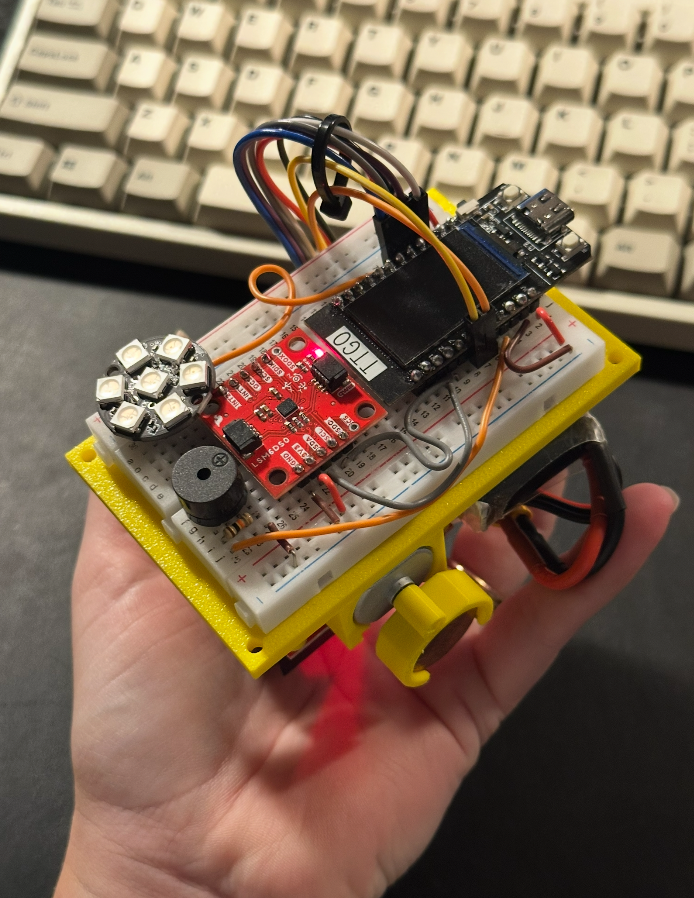
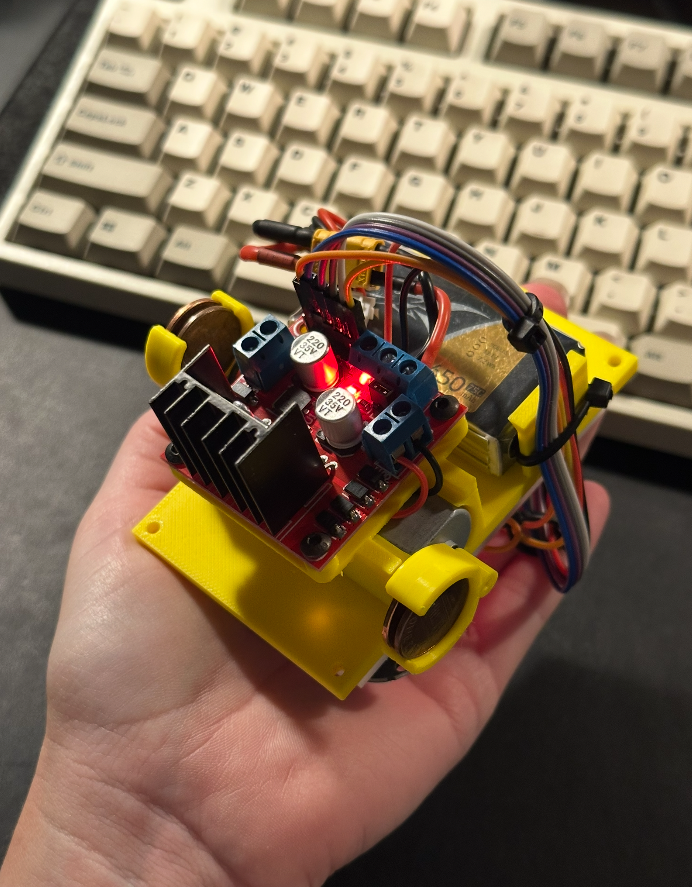
Projects

diff --git a/index.html b/index.html
@@ -503,36 +503,15 @@
                     <a class="card projects-card" data-target="detail-audio"> 
                         <img src="media/projects/low-level.jpeg" alt="Audio" /> 
                     </a>
-                    <a class="card projects-card" data-target="detail-neopixel"> 
+                    <a class="card projects-card" data-target="detail-cat-toy"> 
                         <img src="media/projects/neopixel.png" alt="Neopixel" /> 
                     </a>
                     <a class="card projects-card" data-target="detail-glee"> 
                         <img src="media/projects/nasa-glee.jpeg" alt="NASA GLEE" /> 
                     </a>
-                    <a class="card projects-card" data-target="detail-audio"> 
+                    <a class="card projects-card" data-target="detail-minds"> 
                         <img src="media/projects/nasa-minds.png" alt="NASA MINDS" /> 
                     </a>
-                    <!-- <a href="#work-in-progress" class="card">
-                        <img src="media/projects/low-level-cover.jpeg" alt="ATmega32" />
-                        <div class="projects-title">
-                            <h2>ATmega32 Audio Feedback Device</h2>
-                        </div>
-                        <p class="projects-text"> Embedded Systems</p>
-                    </a> -->
-                    <!-- <a href="#work-in-progress" class="card">
-                        <img src="media/projects/neopixel.png" alt="Neopixel" />
-                        <div class="projects-title">
-                            <h2>ESP32 Motion-activated Cat Toy</h2>
-                        </div>
-                        <p class="projects-text"> Embedded Systems</p>
-                    </a> -->
-                    <!-- <a href="#work-in-progress" class="card">
-                        <img src="media/projects/nasa-glee.jpeg" alt="NASA GLEE" />
-                        <div class="projects-title">
-                            <h2>LunaSat Device</h2>
-                        </div>
-                        <p class="projects-text"> NASA GLEE · Embedded Systems</p>
-                    </a> -->
                     <!-- <a href="#work-in-progress" class="card">
                         <img src="media/projects/nasa-minds.png" alt="NASA MINDS" />
                         <div class="projects-title">
@@ -556,8 +535,9 @@
                             <!-- LEFT: text only -->
                             <div class="text-detail">
                                 <p>CON-E is a computer vision-enabled robotic traffic cone that autonomously tracks orange objects (like other cones or safety vests). 
-                                This project was built in 2 days at UCI's first ever Embedded Systems Hackathon, BitHacks 2025, where it was awarded Best Meme Hack.</p>
-                                
+                                This project was built in 2 days at UCI's first ever Embedded Systems Hackathon, <a href="https://devpost.com/software/con-e?_gl=1*5m1v9d*_gcl_au*MTg3NjE3MTc0MC4xNzc3MjUwMDg4*_ga*MTE2MTcwNDkxNS4xNzc3MjUwMDg4*_ga_0YHJK3Y10M*czE3Nzg0NjgxNzgkbzMkZzEkdDE3Nzg0NjgxOTUkajQzJGwwJGgw" 
+                                target="_blank" class="outgoing-link">BitHacks 2025</a>, where it was awarded Best Meme Hack.</p>
+
                                 <p>The system combines a Raspberry Pi for vision processing with an ESP32-S3 controlling mobility, audio, 
                                 and LED-based expression. I specialized in the embedded hardware architecture, custom 3D-printed chassis, physical internal and external components, and 
                                 power design (all under strict budget constraints set by the hackathon). I also collaborated on embedded-software and firmware design.</p>
@@ -606,11 +586,12 @@
                         <div class="detail-body">
                             <!-- LEFT: text only -->
                             <div class="text-detail">
-                                <p>Developed an embedded system using an ATmega32 microcontroller, discrete LEDs, and a sound decibel detector to 
-                                provide real-time visual feedback for ambient sound levels. The device is designed to help gamers—often unaware 
-                                of their volume due to noise-canceling headphones—self-regulate their speaking volume using intuitive LED cues. 
-                                Future plans include migrating to a LilyGo MCU for WS2812 LED strip integration, adding a USB-C power interface, 
-                                and developing a reward-based sound history tracking system.</p>
+                                <p>After repeatedly failing at regulating my husband's gaming volume, I created an embedded system using an 
+                                ATmega32 microcontroller, discrete LEDs, and a sound decibel detector to provide real-time visual feedback 
+                                for ambient sound levels. The device is designed to help gamers, who are often unaware of their volume due to 
+                                noise-canceling headphones, to self-regulate their speaking volume using intuitive LED cues. Future plans include 
+                                migrating to a LilyGo MCU for WS2812 LED strip integration, adding a USB-C power interface, and developing 
+                                a reward-based sound history tracking system.</p>
 
                                 <ul class="text-list">
                                     <li>Green, yellow, and red LEDs represent real-time volume levels</li>
@@ -635,11 +616,11 @@
                                         <img src="media/projects/atmega32/low-level-cover.png" alt="ATMega32" />
                                     </a>
                                     <div class="media-item-video">
-                                        <a href="https://youtu.be/shorts/fyeoDqoIOzc" class="glightbox">
+                                        <a href="https://www.youtube.com/watch?v=fyeoDqoIOzc" class="glightbox">
                                             <img src="media/projects/atmega32/all-levels.gif" alt="ATMega32" />
                                             <div class="media-play"><i class="fa-sharp fa-solid fa-play"></i></div>
                                         </a>
-                                        <a href="https://youtu.be/shorts/fyeoDqoIOzc" target="_blank" class="media-yt-link">
+                                        <a href="https://youtube.com/shorts/fyeoDqoIOzc" target="_blank" class="media-yt-link">
                                             <i class="fa-solid fa-arrow-up-right-from-square"></i>
                                         </a>
                                     </div>
@@ -647,6 +628,120 @@
                             </div>
                         </div>
                     </div>
+
+                    <!-- ESP32 -->
+                    <div class="projects-detail-panel" id="detail-cat-toy">
+                        <div class="detail-header">
+                            <h3>ESP32 Motion-activated Cat Toy</h3>
+                            <h4>Embedded Systems · December 2024</h4>
+                        </div>
+                        <div class="detail-body">
+                            <!-- LEFT: text only -->
+                            <div class="text-detail">
+                                <p>Designed and built a motion-activated motorized cat toy using an ESP32 LilyGo microcontroller, 
+                                integrating motor control, a speaker, LED, and accelerometer to drive autonomous state logic and 
+                                interactive play.</p>
+                                
+                                <p>All embedded behavior was programmed in C++, with motion detection triggering 
+                                dynamic responses based on programmed thresholds. The embedded system was contained in a custom 
+                                3D-printed spherical enclosure and internal component housing, and featured interchangeable attachments.</p>
+                            </div>
+                            <!-- RIGHT: tags + links + media -->
+                            <div class="detail-right">
+                                <div class="detail-tags-row">
+                                    <div class="detail-tags">
+                                        <span class="detail-tag">C++</span>
+                                        <span class="detail-tag">ESP32</span>
+                                        <span class="detail-tag">Embedded</span>
+                                    </div>
+                                    <a href="https://github.com/morganoliviaevans/cs-147-project" target="_blank" class="outgoing-link-bubble">
+                                        <i class="fa-brands fa-github"></i> GitHub
+                                    </a>
+                                </div>
+                                <div class="detail-media">
+                                    <a href="media/projects/esp32/esp32-design.png" class="glightbox media-item">
+                                        <img src="media/projects/esp32/esp32-design-cover.png" alt="ESP32" />
+                                    </a>
+                                    <!-- Gallery 1 -->
+                                    <a href="media/projects/esp32/hardware-housing1.png"
+                                        class="glightbox media-item" 
+                                        data-gallery="esp32-media">
+                                        <img src="media/projects/esp32/hardware-housing-cover.png" alt="ESP32 Hardware Housing" />
+                                    </a>
+                                    <!-- Hidden gallery items — images 2 through 4 -->
+                                    <a href="media/projects/esp32/hardware-housing2.png"  class="glightbox" data-gallery="esp32-media" style="display:none;"></a>
+                                    <a href="media/projects/esp32/hardware-housing3.png"  class="glightbox" data-gallery="esp32-media" style="display:none;"></a>
+                                    <a href="media/projects/esp32/stls.png"  class="glightbox" data-gallery="esp32-media" style="display:none;"></a>
+
+                                    <div class="media-item-video">
+                                        <a href="https://youtu.be/WbrV01EbhwA" class="glightbox">
+                                            <img src="media/projects/esp32/esp32.gif" alt="ESP32" />
+                                            <div class="media-play"><i class="fa-sharp fa-solid fa-play"></i></div>
+                                        </a>
+                                        <a href="https://youtu.be/5Dz7GZrXhy0" target="_blank" class="media-yt-link">
+                                            <i class="fa-solid fa-arrow-up-right-from-square"></i>
+                                        </a>
+                                    </div>
+                                </div>
+                            </div>
+                        </div>
+                    </div>
+
+                                        <!-- ESP32 -->
+                    <div class="projects-detail-panel" id="detail-glee">
+                        <div class="detail-header">
+                            <h3>LunaSat Device</h3>
+                            <h4>Embedded Systems · May 2022 – Jun 2023</h4>
+                        </div>
+                        <div class="detail-body">
+                            <!-- LEFT: text only -->
+                            <div class="text-detail">
+                                <p>The NASA GLEE project is a student-led initiative run through NASA's Artemis mission, giving students 
+                                worldwide the opportunity to build, design, and program a LunaSat — a small spacecraft equipped with an 
+                                integrated sensor suite for gathering temperature, magnetic field, and inertial measurement data on the 
+                                lunar surface. Once deployed, each LunaSat operates on the Moon for approximately 56 Earth days, 
+                                transmitting sensor readings back to teams for processing and archival in NASA's research database.</p>
+
+                                <p>As one of my earliest technical experiences, I worked as part of a small team to assemble, test, 
+                                and program our LunaSat using Arduino and C++. At the time, none of us had yet been introduced to 
+                                version control or collaborative development workflows — we were learning what it meant to work 
+                                on a technical project as a team entirely from scratch. Looking back, it was a foundational 
+                                experience that sparked my interest in both space systems and hands-on hardware development.</p>
+                            </div>
+                            <!-- RIGHT: tags + links + media -->
+                            <div class="detail-right">
+                                <div class="detail-tags-row">
+                                    <div class="detail-tags">
+                                        <span class="detail-tag">C++</span>
+                                        <span class="detail-tag">Arduino</span>
+                                    </div>
+                                </div>
+                                <div class="detail-media">
+                                    <!-- Gallery 1 -->
+                                    <a href="media/projects/nasa-glee/lunasat-2.jpg"
+                                        class="glightbox media-item" 
+                                        data-gallery="lunasat-media">
+                                        <img src="media/projects/nasa-glee/lunasat-2.jpg" alt="Lunasat" />
+                                    </a>
+                                    <!-- Hidden gallery items — image 2 -->
+                                    <a href="media/projects/nasa-glee/lunasat-1.jpg"  class="glightbox" data-gallery="lunasat-media" style="display:none;"></a>
+
+                                    <div class="media-item-video">
+                                        <a href="https://www.youtube.com/watch?v=aHxeZxGVyVQ" class="glightbox">
+                                            <img src="https://img.youtube.com/vi/aHxeZxGVyVQ/maxresdefault.jpg" alt="ESP32" />
+                                            <div class="media-play"><i class="fa-sharp fa-solid fa-play"></i></div>
+                                        </a>
+                                        <a href="https://www.youtube.com/watch?v=aHxeZxGVyVQ" target="_blank" class="media-yt-link">
+                                            <i class="fa-solid fa-arrow-up-right-from-square"></i>
+                                        </a>
+                                    </div>
+                                </div>
+                            </div>
+                        </div>
+                    </div>
+
+
+
                 </div>
             </main>
         </section>

diff --git a/style.css b/style.css
@@ -747,6 +747,7 @@ EXPERIENCE MAIN
 }
 
 #experience-grid .card:hover img {
+    cursor:    pointer;
     opacity:   1;
     transform: scale(1.05);
 }
@@ -1123,6 +1124,7 @@ PROJECTS MAIN
 }
 
 #projects-grid .card:hover img {
+    cursor:    pointer;
     filter:    brightness(1); /* Brighten on hover */
     transform: scale(1.05);   /* Zoom on hover */
 }
@@ -1168,7 +1170,7 @@ CONTACT LIST (FOOTER)
     gap:             1.75rem; 
     margin:          0 auto;
     display:         flex;
-    padding:         1rem 0rem 0rem; 
+    padding:         1rem 0rem 1rem; 
     align-items:     center;
     justify-content: center;
 }
